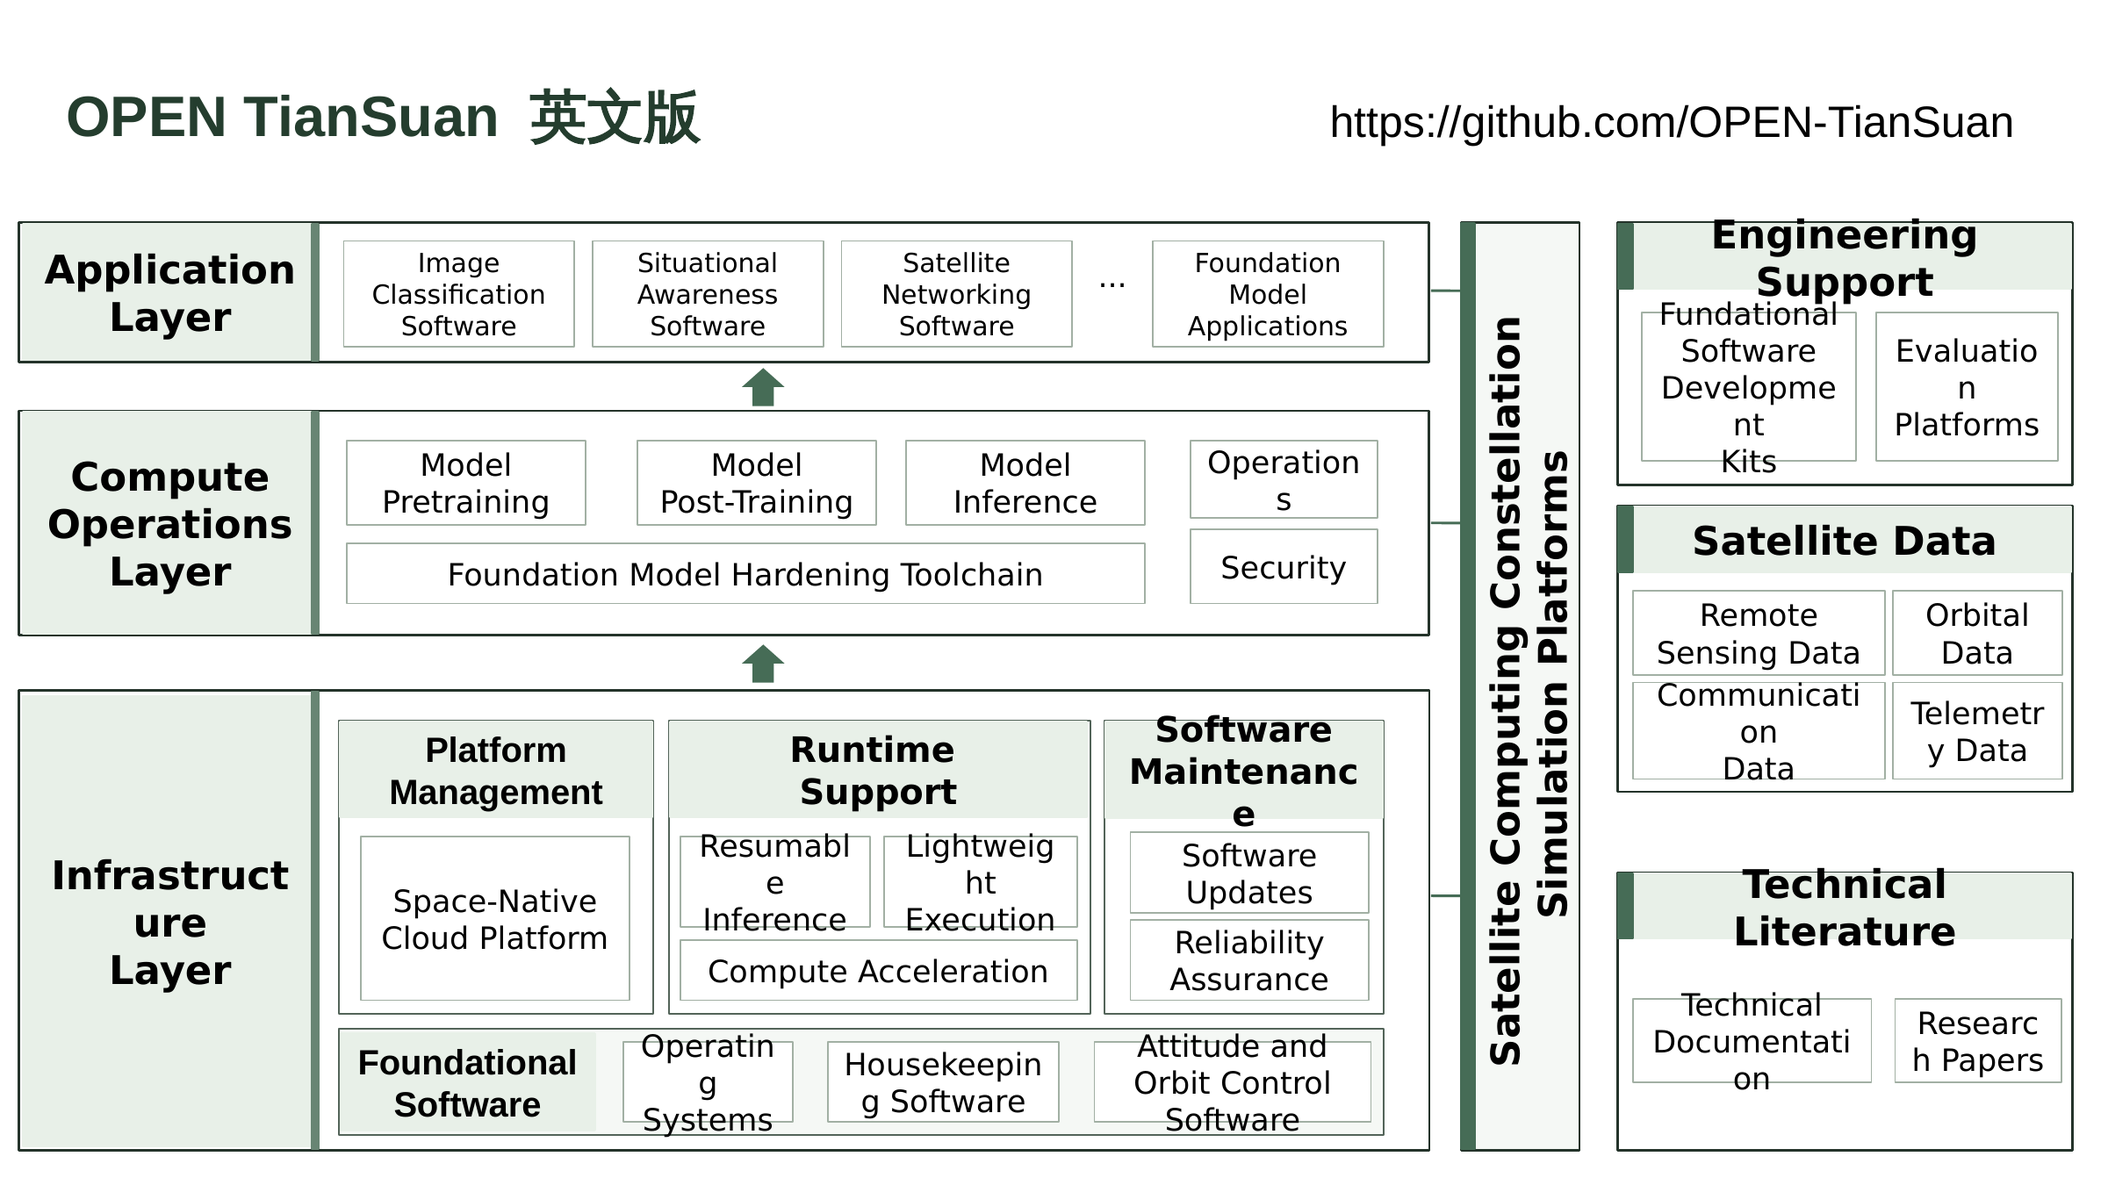
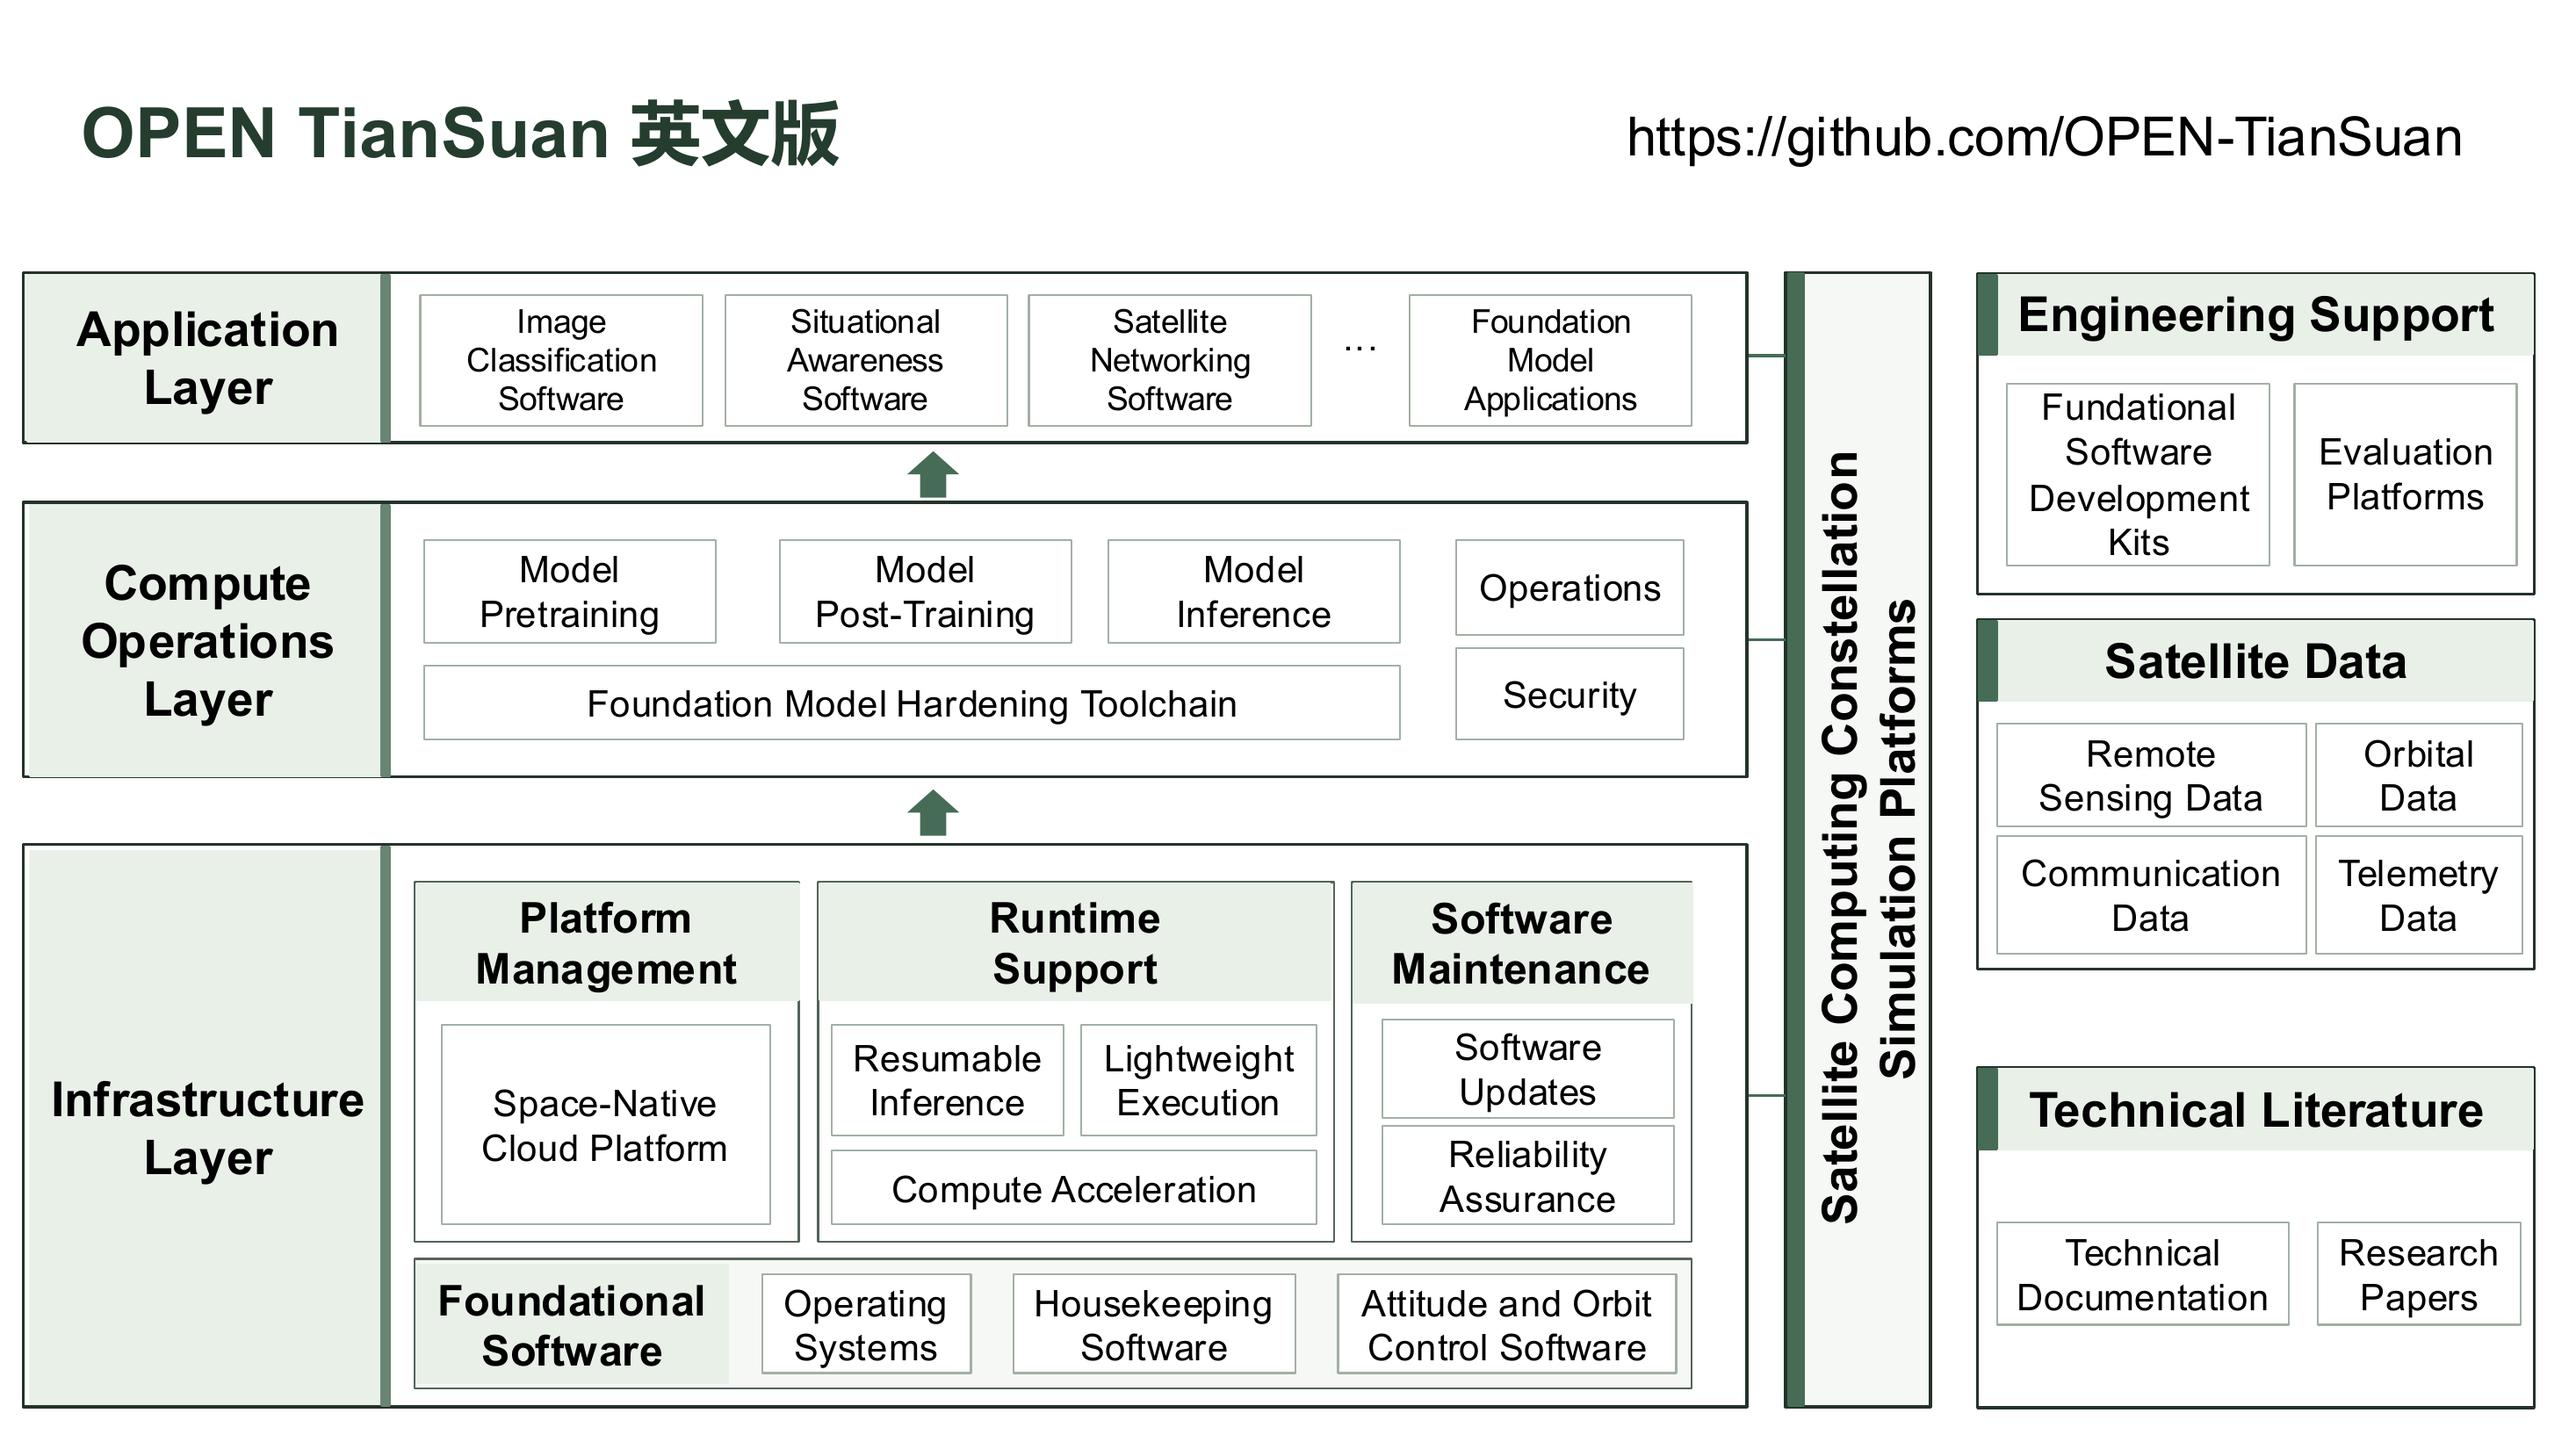
Use PDF-rendered architecture diagrams and expand repository cards
Replace the PPTX renders with higher-quality PDF renders and present the seven repositories as expanded sections instead of a table.

diff --git a/profile/README.md b/profile/README.md
@@ -37,101 +37,54 @@ As [our ASE 2026 study](https://doi.org/10.1145/3832783.3834343) of the open-sou
 
 </details>
 
-<table>
-<tr>
-<td width="50%" valign="top">
-
-<img src="https://raw.githubusercontent.com/OPEN-TianSuan/.github/main/assets/accent-software.svg" width="100%" height="4" alt="">
-
 ### 🛰 [ApplicationLayer](https://github.com/OPEN-TianSuan/ApplicationLayer)
 
 Satellite application software: the ten App1–App10 cases from the SateLight update framework, covering attitude determination, change detection and encoding, client caching, core network, compression, image encoding, object and ship detection, and tracking.
-
-</td>
-<td width="50%" valign="top">
-
-<img src="https://raw.githubusercontent.com/OPEN-TianSuan/.github/main/assets/accent-software.svg" width="100%" height="4" alt="">
 
 ### 🧠 [ComputeOperationsLayer](https://github.com/OPEN-TianSuan/ComputeOperationsLayer)
 
 Compute operations for satellite computing, covering model training, inference, hardening, operations, and security.
 
-- **[Model Pretraining](https://github.com/OPEN-TianSuan/ComputeOperationsLayer/tree/main/ModelPretraining)** and **[Model Post-Training](https://github.com/OPEN-TianSuan/ComputeOperationsLayer/tree/main/ModelPostTraining)** cover foundation-model training.
-- **[Model Inference](https://github.com/OPEN-TianSuan/ComputeOperationsLayer/tree/main/ModelInference)** hosts inference workloads.
-- **[Foundation Model Hardening Toolchain](https://github.com/OPEN-TianSuan/ComputeOperationsLayer/tree/main/FoundationModelHardeningToolchain)** covers model hardening.
-- **[Operations](https://github.com/OPEN-TianSuan/ComputeOperationsLayer/tree/main/Operations)** and **[Security](https://github.com/OPEN-TianSuan/ComputeOperationsLayer/tree/main/Security)** cover operational and security work.
-
-</td>
-</tr>
-<tr>
-<td width="50%" valign="top">
-
-<img src="https://raw.githubusercontent.com/OPEN-TianSuan/.github/main/assets/accent-software.svg" width="100%" height="4" alt="">
+- **Model Pretraining** and **Model Post-Training** cover foundation-model training.
+- **Model Inference** hosts inference workloads.
+- **Foundation Model Hardening Toolchain** covers model hardening.
+- **Operations** and **Security** cover operational and security work.
 
 ### 🏗 [InfrastructureLayer](https://github.com/OPEN-TianSuan/InfrastructureLayer)
 
 Satellite infrastructure software, from foundational onboard software to platform management, runtime support, and software maintenance.
 
-- **[Platform Management](https://github.com/OPEN-TianSuan/InfrastructureLayer/tree/main/PlatformManagement)** hosts the space-native cloud platform.
-- **[Runtime Support](https://github.com/OPEN-TianSuan/InfrastructureLayer/tree/main/RuntimeSupport)** provides resumable inference, lightweight execution, and compute acceleration.
-- **[Software Maintenance](https://github.com/OPEN-TianSuan/InfrastructureLayer/tree/main/SoftwareMaintenance)** covers software updates and reliability assurance.
-- **[Foundational Software](https://github.com/OPEN-TianSuan/InfrastructureLayer/tree/main/FoundationalSoftware)** covers operating systems, housekeeping software, and attitude and orbit control software.
-
-</td>
-<td width="50%" valign="top">
-
-<img src="https://raw.githubusercontent.com/OPEN-TianSuan/.github/main/assets/accent-tools.svg" width="100%" height="4" alt="">
+- **Platform Management** hosts the space-native cloud platform.
+- **Runtime Support** provides resumable inference, lightweight execution, and compute acceleration.
+- **Software Maintenance** covers software updates and reliability assurance.
+- **Foundational Software** covers operating systems, housekeeping software, and attitude and orbit control software.
 
 ### 🛠 [EngineeringSupport](https://github.com/OPEN-TianSuan/EngineeringSupport)
 
 Engineering support for satellite software, with foundational software development kits and evaluation platforms.
 
-- **[Foundational Software Development Kits](https://github.com/OPEN-TianSuan/EngineeringSupport/tree/main/FoundationalSoftwareDevelopmentKits)** gathers frameworks, libraries, and toolchain projects.
-- **[Evaluation Platforms](https://github.com/OPEN-TianSuan/EngineeringSupport/tree/main/EvaluationPlatforms)** collects platforms for benchmarking and evaluation.
-
-</td>
-</tr>
-<tr>
-<td width="50%" valign="top">
-
-<img src="https://raw.githubusercontent.com/OPEN-TianSuan/.github/main/assets/accent-tools.svg" width="100%" height="4" alt="">
+- **Foundational Software Development Kits** gathers frameworks, libraries, and toolchain projects.
+- **Evaluation Platforms** collects platforms for benchmarking and evaluation.
 
 ### 🌐 [SimulationPlatform](https://github.com/OPEN-TianSuan/SimulationPlatform)
 
 Open-source platforms for simulating satellite computing constellations, covering communication networks, orbital analysis, and RF/SDR simulation.
 
-</td>
-<td width="50%" valign="top">
-
-<img src="https://raw.githubusercontent.com/OPEN-TianSuan/.github/main/assets/accent-data.svg" width="100%" height="4" alt="">
-
 ### 🗂 [SatelliteData](https://github.com/OPEN-TianSuan/SatelliteData)
 
 Satellite data collections spanning imagery, orbits, telemetry, and communication links.
 
-- **[Remote Sensing Imagery](https://github.com/OPEN-TianSuan/SatelliteData/tree/main/RemoteSensingImagery)** curates open datasets and data-access platforms.
-- **[Orbital Data](https://github.com/OPEN-TianSuan/SatelliteData/tree/main/OrbitalData)** collects orbital products such as TLE sets and ephemerides.
-- **[Telemetry Data](https://github.com/OPEN-TianSuan/SatelliteData/tree/main/TelemetryData)** shares satellite telemetry and collection notes.
-- **[Communication Data](https://github.com/OPEN-TianSuan/SatelliteData/tree/main/CommunicationData)** provides communication data and link measurements.
-
-</td>
-</tr>
-<tr>
-<td width="50%" valign="top">
-
-<img src="https://raw.githubusercontent.com/OPEN-TianSuan/.github/main/assets/accent-literature.svg" width="100%" height="4" alt="">
+- **Remote Sensing Imagery** curates open datasets and data-access platforms.
+- **Orbital Data** collects orbital products such as TLE sets and ephemerides.
+- **Telemetry Data** shares satellite telemetry and collection notes.
+- **Communication Data** provides communication data and link measurements.
 
 ### 📄 [TechnicalLiterature](https://github.com/OPEN-TianSuan/TechnicalLiterature)
 
 Reference material on satellite systems, from peer-reviewed research to standards and technical reports.
 
-- **[Research Papers](https://github.com/OPEN-TianSuan/TechnicalLiterature/tree/main/ResearchPapers)** indexes papers from top conferences and journals.
-- **[Technical Documentation](https://github.com/OPEN-TianSuan/TechnicalLiterature/tree/main/TechnicalDocumentation)** brings together standards, specifications, research reports, and engineering guidelines.
-
-</td>
-<td></td>
-</tr>
-</table>
+- **Research Papers** indexes papers from top conferences and journals.
+- **Technical Documentation** brings together standards, specifications, research reports, and engineering guidelines.
 
 Our repositories are continuously updated with new resources, tools, and projects.
 
